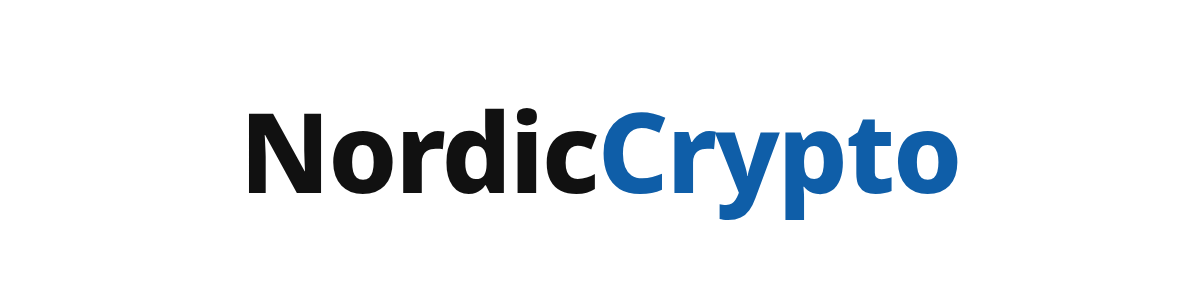
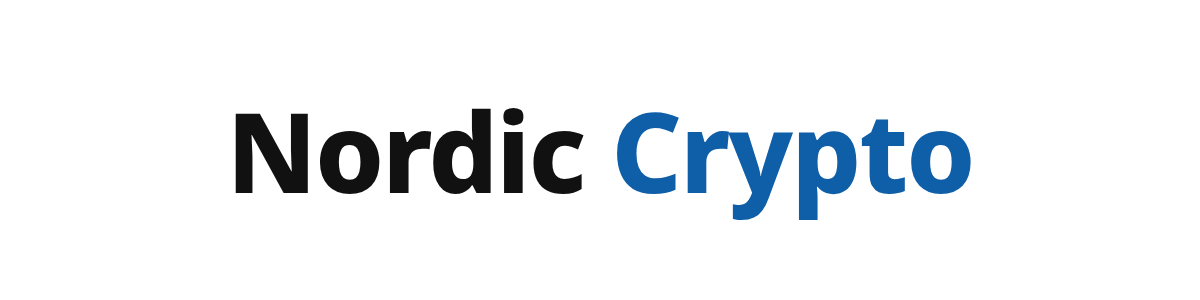
Newsletter: link to the Substack signup (https://nordiccrypto.substack.com/subscribe) in the footer and on /newsletter/ in 7 languages, independent of the own form (still off); fix the missing space in the Nordic Crypto wordmark (make_brand_assets.py, --site option); Substack setup checklist updated

Changed region(s): [[0.185, 0.36, 0.8325, 0.75]]

diff --git a/build.py b/build.py
@@ -152,6 +152,7 @@ html.nc-pick body{visibility:hidden}
 .rules-c .seg{margin:8px 0}
 .nlform{margin:12px 0}.nlform input[type=email]{padding:6px;width:100%;max-width:320px}.nlform button{padding:7px 14px;font-size:15px}.nlform .hp{position:absolute;left:-9999px}
 .nlmsg{display:block;margin-top:6px}.nlmsg.ok{color:#14532d}.nlmsg.warn{color:#9a3412}.nlfoot{margin-bottom:14px;padding-bottom:12px;border-bottom:1px solid var(--line)}.nlfoot .nlform{display:inline}.nlc label{position:absolute;left:-9999px}
+.nlsub{display:inline-block;padding:6px 14px;border-radius:6px;background:#0f5ea8;color:#fff!important;text-decoration:none;font-weight:600}.nlsub:hover,.nlsub:focus{background:#0b4a85}
 """
 
 NAV = [("", "nav_news"), ("calendar", "nav_calendar"), ("org-chart", "nav_org"), ("academia", "nav_academia"), ("sources", "nav_sources"), ("about", "nav_about"), ("tip", "nav_tip")]
@@ -193,15 +194,29 @@ if(q.get('sent'))say(f0,'sent');else if(q.get('confirmed'))say(f0,'confirmed');e
 F.forEach(function(f){f.addEventListener('submit',function(ev){ev.preventDefault();var b=f.querySelector('button'),d={};new FormData(f).forEach(function(v,k){d[k]=v});
 b.disabled=true;say(f,'sending');fetch(f.getAttribute('data-ep')+'/api/subscribe',{method:'POST',headers:{'Content-Type':'application/json','Accept':'application/json'},body:JSON.stringify(d)})
 .then(function(r){return r.json().then(function(j){b.disabled=false;if(r.ok){say(f,'sent');f.reset()}else say(f,E[j.error]||'e_fail')})}).catch(function(){b.disabled=false;say(f,'e_fail')})})})})();</script>""" % json.dumps(m, ensure_ascii=False)
+def substack_subscribe_url():
+    """Substack signup page (newsletter/config.json substack_url + /subscribe), or None. Independent of the own form:
+    the Substack link is shown even while enabled is false (Substack handles signup and privacy itself)."""
+    u = (NL_CFG.get("substack_url") or "").strip().rstrip("/")
+    if not u.startswith("https://"): return None
+    return u if u.endswith("/subscribe") else u + "/subscribe"
+def newsletter_on(): return bool(newsletter_endpoint() or substack_subscribe_url())
+def substack_button():
+    sub = substack_subscribe_url()
+    return f'<a class="nlsub" href="{E(sub)}" rel="noopener">{E(t("nl_sub_btn"))}</a>' if sub else ""
 def build_newsletter():
-    """/newsletter/ in every language: what you get, the form, the privacy note and the Kaupr disclosure. Only when on."""
-    if not newsletter_endpoint(): return
-    sub = NL_CFG.get("substack_url")
+    """/newsletter/ in every language: what you get, the own form (only when on), the Substack signup link (whenever
+    substack_url is set), the privacy note and the Kaupr disclosure. Not built when neither is available."""
+    if not newsletter_on(): return
+    form = newsletter_form()
+    sub = substack_button()
+    priv = f'<p class="notice">{t("nl_priv")}</p>' if form else ""
+    subnote = f'<p class="notice">{t("nl_sub_note")}</p>' if sub and not form else ""
     body = f"""<h1>{E(t("nl_title"))}</h1>
 <p class="lead">{E(t("nl_lead"))}</p>
-{newsletter_form()}
-<div class="prose"><p class="notice">{t("nl_priv")}</p>
-{f'<p><a href="{E(sub)}" rel="noopener">Substack</a></p>' if sub else ''}
+{form}
+{f'<p>{sub}</p>' if sub else ''}
+<div class="prose">{priv}{subnote}
 <p class="meta">{t("nl_kaupr")}</p></div>"""
     page("newsletter", t("nl_title"), "newsletter", body, t("nl_desc"))
 LANGSEL_JS = None
@@ -233,7 +248,7 @@ def page(slug, title, nav, body, desc, extra_script="", langs=None):
                 .replace("__COOKIE_PATH__", COOKIE_PATH).replace("__LANGS__", json.dumps(i18n.LANGS)) + "</script>")
     setck = ("<script>(function(){document.addEventListener('click',function(e){var a=e.target.closest&&e.target.closest('a[data-lang]');if(!a)return;"
              f"document.cookie='nc_lang='+a.getAttribute('data-lang')+';path={COOKIE_PATH};max-age=31536000;SameSite=Lax'+(location.protocol==='https:'?';Secure':'')}})}})();</script>")
-    nlfoot = (f'<div class="nlfoot"><b>{E(t("nl_foot"))}</b> {newsletter_form(True)} <a href="{rel}newsletter/">{E(t("nl_more"))}</a></div>' if newsletter_endpoint() and slug != "newsletter" else "")
+    nlfoot = (f'<div class="nlfoot"><b>{E(t("nl_foot"))}</b> {" ".join(x for x in (newsletter_form(True), substack_button()) if x)} <a href="{rel}newsletter/">{E(t("nl_more"))}</a></div>' if newsletter_on() and slug != "newsletter" else "")
     doc = f"""<!doctype html>
 <html lang="{i18n.HTML_LANG[LANG]}"><head><meta charset="utf-8"><meta name="viewport" content="width=device-width,initial-scale=1">
 {pick}<title>{E(title)}{" – " + SITE_NAME if slug else ""}</title>

diff --git a/newsletter/make_brand_assets.py b/newsletter/make_brand_assets.py
@@ -3,10 +3,17 @@ from playwright.sync_api import sync_playwright
 NC_MARK = "<svg xmlns='http://www.w3.org/2000/svg' viewBox='0 0 16 16'><rect width='16' height='16' fill='#0f5ea8'/><rect x='4' width='3' height='16' fill='white'/><rect y='6.5' width='16' height='3' fill='white'/></svg>"
 KN_MARK = "<svg xmlns='http://www.w3.org/2000/svg' viewBox='0 0 16 16'><rect width='16' height='16' fill='#b45309'/><text x='8' y='12.5' font-size='12' text-anchor='middle' fill='white' font-family='DejaVu Sans, sans-serif' font-weight='bold'>K</text></svg>"
 FONT = "font-family:system-ui,-apple-system,Roboto,Helvetica,Arial,sans-serif"   # same stack as the sites (no quotes: used inside style='…')
-def word(nc): return ("Nordic <span style='color:#0f5ea8'>Crypto</span>" if nc else "Krypto<span style='color:#b45309'>nytt</span> Norge")
+# The wordmark is wrapped in ONE inline span with a non-breaking space: as direct children of a flex container, the text node
+# "Nordic " and the coloured <span> became separate flex items and the space between them was dropped ("NordicCrypto").
+def word(nc): return ("<span style='white-space:nowrap'>Nordic&nbsp;<span style='color:#0f5ea8'>Crypto</span></span>" if nc
+                      else "<span style='white-space:nowrap'>Krypto<span style='color:#b45309'>nytt</span>&nbsp;Norge</span>")
 def tag(nc): return ("Crypto news from the Nordics" if nc else "Norske nyheiter om bitcoin, blokkjede og krypto")
+import sys
+# usage: make_brand_assets.py [--site nordic-crypto|kryptonytt]   (default: both sites)
+ONLY = sys.argv[sys.argv.index("--site") + 1] if "--site" in sys.argv else None
 JOBS = []
 for nc, d in ((True, "/workspace/nordic-crypto/newsletter/assets/"), (False, "/workspace/kryptonytt/newsletter/assets/")):
+    if ONLY and ONLY != ("nordic-crypto" if nc else "kryptonytt"): continue
     mark = NC_MARK if nc else KN_MARK
     open(d + "logo.svg", "w").write(mark.replace("viewBox", "width='512' height='512' viewBox") + "\n")
     JOBS += [(d + "logo-512.png", 512, 512, f"<div style='width:512px;height:512px'>{mark.replace('viewBox', 'width=\"512\" height=\"512\" viewBox')}</div>"),

diff --git a/i18n/is.py b/i18n/is.py
@@ -137,5 +137,7 @@ S.update({
 "nl_e_rate": "Of margar tilraunir á stuttum tíma. Reyndu aftur síðar.",
 "nl_e_link": "Tengillinn er ógildur eða útrunninn. Skráðu þig aftur.",
 "nl_e_fail": "Eitthvað fór úrskeiðis. Reyndu aftur síðar.",
-"nl_kaupr": "<b>Upplýsingagjöf:</b> Kaupr (kaupr.io) er einn af fréttamiðlunum sem við fylgjumst með, styrkir suma viðburði í dagatalinu okkar og styrkir Oslo Blockchain Meetup, sem jQrgen, útgefandi Nordic Crypto, stendur fyrir."
+"nl_kaupr": "<b>Upplýsingagjöf:</b> Kaupr (kaupr.io) er einn af fréttamiðlunum sem við fylgjumst með, styrkir suma viðburði í dagatalinu okkar og styrkir Oslo Blockchain Meetup, sem jQrgen, útgefandi Nordic Crypto, stendur fyrir.",
+"nl_sub_btn": "Gerast áskrifandi á Substack →",
+"nl_sub_note": "Þú skráir þig hjá Substack (nordiccrypto.substack.com), sem sendir fréttabréfið. Substack meðhöndlar netfangið þitt samkvæmt eigin persónuverndarstefnu; þessi vefur geymir ekkert og notar enga rakningu. Í hverju fréttabréfi er tengill til að segja upp áskrift."
 })

diff --git a/i18n/fi.py b/i18n/fi.py
@@ -137,5 +137,7 @@ S.update({
 "nl_e_rate": "Liian monta yritystä lyhyessä ajassa. Yritä myöhemmin uudelleen.",
 "nl_e_link": "Linkki ei ole voimassa tai se on vanhentunut. Tilaa uudelleen.",
 "nl_e_fail": "Jokin meni vikaan. Yritä myöhemmin uudelleen.",
-"nl_kaupr": "<b>Avoimuus:</b> Kaupr (kaupr.io) on yksi seuraamistamme uutislähteistä, sponsoroi joitakin kalenterimme tapahtumia ja sponsoroi Oslo Blockchain Meetupia, jota pitää Nordic Crypton julkaisija jQrgen."
+"nl_kaupr": "<b>Avoimuus:</b> Kaupr (kaupr.io) on yksi seuraamistamme uutislähteistä, sponsoroi joitakin kalenterimme tapahtumia ja sponsoroi Oslo Blockchain Meetupia, jota pitää Nordic Crypton julkaisija jQrgen.",
+"nl_sub_btn": "Tilaa Substackissa →",
+"nl_sub_note": "Tilaus tehdään Substackissa (nordiccrypto.substack.com), joka lähettää uutiskirjeen. Substack käsittelee sähköpostiosoitettasi oman tietosuojakäytäntönsä mukaisesti; tämä sivusto ei tallenna mitään eikä seuraa sinua. Jokaisessa uutiskirjeessä on linkki tilauksen perumiseen."
 })

diff --git a/i18n/sv.py b/i18n/sv.py
@@ -137,5 +137,7 @@ S.update({
 "nl_e_rate": "För många försök på kort tid. Försök igen senare.",
 "nl_e_link": "Länken är ogiltig eller har gått ut. Anmäl dig igen.",
 "nl_e_fail": "Något gick fel. Försök igen senare.",
-"nl_kaupr": "<b>Öppenhet:</b> Kaupr (kaupr.io) är en av nyhetskällorna vi följer, sponsrar några evenemang i vår kalender och sponsrar Oslo Blockchain Meetup, som drivs av jQrgen, utgivare av Nordic Crypto."
+"nl_kaupr": "<b>Öppenhet:</b> Kaupr (kaupr.io) är en av nyhetskällorna vi följer, sponsrar några evenemang i vår kalender och sponsrar Oslo Blockchain Meetup, som drivs av jQrgen, utgivare av Nordic Crypto.",
+"nl_sub_btn": "Prenumerera på Substack →",
+"nl_sub_note": "Du anmäler dig hos Substack (nordiccrypto.substack.com), som skickar nyhetsbrevet. Substack hanterar din e-postadress enligt sin egen integritetspolicy; den här webbplatsen sparar ingenting och har ingen spårning. Varje nyhetsbrev har en länk för att avsluta prenumerationen."
 })

diff --git a/i18n/nn.py b/i18n/nn.py
@@ -137,5 +137,7 @@ S.update({
 "nl_e_rate": "For mange forsøk på kort tid. Prøv igjen seinare.",
 "nl_e_link": "Lenkja er ugyldig eller har gått ut. Meld deg på på nytt.",
 "nl_e_fail": "Noko gjekk gale. Prøv igjen seinare.",
-"nl_kaupr": "<b>Openheit:</b> Kaupr (kaupr.io) er ei av nyheitskjeldene vi følgjer, sponsar nokre arrangement i kalenderen vår og sponsar Oslo Blockchain Meetup, som blir driven av jQrgen, utgjevaren av Nordic Crypto."
+"nl_kaupr": "<b>Openheit:</b> Kaupr (kaupr.io) er ei av nyheitskjeldene vi følgjer, sponsar nokre arrangement i kalenderen vår og sponsar Oslo Blockchain Meetup, som blir driven av jQrgen, utgjevaren av Nordic Crypto.",
+"nl_sub_btn": "Abonner på Substack →",
+"nl_sub_note": "Du melder deg på hos Substack (nordiccrypto.substack.com), som sender nyheitsbrevet. Substack handsamar e-postadressa di etter sine eigne personvernreglar; denne nettstaden lagrar ingenting og har inga sporing. Kvart nyheitsbrev har ei lenkje for å melde seg av."
 })

diff --git a/i18n/en.py b/i18n/en.py
@@ -156,5 +156,7 @@ S.update({
 "nl_e_rate": "Too many attempts in a short time. Please try again later.",
 "nl_e_link": "The link is invalid or has expired. Please sign up again.",
 "nl_e_fail": "Something went wrong. Please try again later.",
-"nl_kaupr": "<b>Disclosure:</b> Kaupr (kaupr.io) is one of the news sources we follow, sponsors some events in our calendar and sponsors Oslo Blockchain Meetup, the meetup run by jQrgen, the publisher of Nordic Crypto."
+"nl_kaupr": "<b>Disclosure:</b> Kaupr (kaupr.io) is one of the news sources we follow, sponsors some events in our calendar and sponsors Oslo Blockchain Meetup, the meetup run by jQrgen, the publisher of Nordic Crypto.",
+"nl_sub_btn": "Subscribe on Substack →",
+"nl_sub_note": "You sign up on Substack (nordiccrypto.substack.com), which sends the newsletter. Substack handles your email address under its own privacy policy; this website stores nothing and has no tracking. Every newsletter has an unsubscribe link."
 })

diff --git a/i18n/nb.py b/i18n/nb.py
@@ -137,5 +137,7 @@ S.update({
 "nl_e_rate": "For mange forsøk på kort tid. Prøv igjen senere.",
 "nl_e_link": "Lenken er ugyldig eller har utløpt. Meld deg på på nytt.",
 "nl_e_fail": "Noe gikk galt. Prøv igjen senere.",
-"nl_kaupr": "<b>Åpenhet:</b> Kaupr (kaupr.io) er en av nyhetskildene vi følger, sponser noen arrangementer i kalenderen vår og sponser Oslo Blockchain Meetup, som drives av jQrgen, utgiveren av Nordic Crypto."
+"nl_kaupr": "<b>Åpenhet:</b> Kaupr (kaupr.io) er en av nyhetskildene vi følger, sponser noen arrangementer i kalenderen vår og sponser Oslo Blockchain Meetup, som drives av jQrgen, utgiveren av Nordic Crypto.",
+"nl_sub_btn": "Abonner på Substack →",
+"nl_sub_note": "Du melder deg på hos Substack (nordiccrypto.substack.com), som sender nyhetsbrevet. Substack behandler e-postadressen din etter sine egne personvernregler; dette nettstedet lagrer ingenting og har ingen sporing. Hvert nyhetsbrev har en lenke for å melde seg av."
 })

diff --git a/i18n/da.py b/i18n/da.py
@@ -137,5 +137,7 @@ S.update({
 "nl_e_rate": "For mange forsøg på kort tid. Prøv igen senere.",
 "nl_e_link": "Linket er ugyldigt eller udløbet. Tilmeld dig igen.",
 "nl_e_fail": "Noget gik galt. Prøv igen senere.",
-"nl_kaupr": "<b>Åbenhed:</b> Kaupr (kaupr.io) er en af de nyhedskilder, vi følger, sponsorerer nogle arrangementer i vores kalender og sponsorerer Oslo Blockchain Meetup, som drives af jQrgen, udgiveren af Nordic Crypto."
+"nl_kaupr": "<b>Åbenhed:</b> Kaupr (kaupr.io) er en af de nyhedskilder, vi følger, sponsorerer nogle arrangementer i vores kalender og sponsorerer Oslo Blockchain Meetup, som drives af jQrgen, udgiveren af Nordic Crypto.",
+"nl_sub_btn": "Abonnér på Substack →",
+"nl_sub_note": "Du tilmelder dig hos Substack (nordiccrypto.substack.com), som sender nyhedsbrevet. Substack behandler din e-mailadresse efter sin egen privatlivspolitik; dette websted gemmer intet og har ingen sporing. Hvert nyhedsbrev har et link til afmelding."
 })

diff --git a/newsletter/substack-setup.md b/newsletter/substack-setup.md
@@ -1,7 +1,9 @@
 # Nordic Crypto – newsletter setup kit (Substack + email)
 
-Status: **prepared, nothing created or sent.** No Substack account exists yet; jQrgen creates it with his own login.
-Nothing here is published to gh-pages, and the signup form on the site is **off** (`newsletter/config.json` → `enabled: false`).
+Status: **Substack publication created by jQrgen on 2026-10-05: https://nordiccrypto.substack.com** (subdomain `nordiccrypto`;
+`/subscribe` answers HTTP 200). Nothing has been sent. The site links to the Substack signup
+(https://nordiccrypto.substack.com/subscribe) in the footer of every page and on `/newsletter/` in all 7 languages
+(`newsletter/config.json` → `substack_url`). The site's own signup form stays **off** (`enabled: false`) until the Worker is deployed.
 
 Two channels:
 1. **Substack** – the publication itself (web archive + Substack's own email and app).
@@ -16,7 +18,7 @@ Two channels:
 | Field | Proposal |
 |---|---|
 | Publication name | **Nordic Crypto** |
-| Subdomain | **nordiccrypto.substack.com** – looked free on 4 Oct 2026 01:22 CEST (HTTP 404, the same as for a random unused name). Alternative: nordiccryptonews.substack.com (also 404). A 404 is only a hint: Substack's sign-up form gives the final answer. |
+| Subdomain | **nordiccrypto.substack.com** – created by jQrgen on 2026-10-05 (https://nordiccrypto.substack.com, HTTP 200; `/subscribe` HTTP 200). |
 | Custom domain (optional, paid add-on) | not needed; the site stays on jqrgen.github.io/nordic-crypto/ |
 | Language (Settings › Publication details) | English |
 | Sender name ("From" name) | **Nordic Crypto** (alternative: "Nordic Crypto – jQrgen") |
@@ -129,11 +131,15 @@ Stories from Kaupr are marked "Kaupr is a sponsor" in the digest.
   `.venv/bin/python tipworker/export_subscribers.py --site nordic-crypto` → `state/newsletter/nordic-crypto-confirmed-<date>.csv`
   (mode 600, gitignored; column `email` first) → Substack › Subscribers › Import. Delete the CSV after the import.
 
-## 7. Checklist for jQrgen (nothing below has been done)
+## 7. Checklist for jQrgen (updated 2026-10-05)
 
-- [ ] Create the Substack publication with your own login; confirm the subdomain (nordiccrypto).
-- [ ] Approve: publication name, sender name, reply-to address, tagline, about text, categories, branding images.
+- [x] Create the Substack publication with your own login; confirm the subdomain (nordiccrypto). Done 2026-10-05: https://nordiccrypto.substack.com
+- [ ] In Substack settings: tagline and about text (section 1), sender name, categories (Crypto; Finance, International/News).
+- [ ] Reply-to address: still undecided (no public address exists; do not use a private one without deciding).
+- [ ] Branding: upload `newsletter/assets/logo-512.png` (logo), `email-banner-1100x220.png` (email header), `cover-1200x630.png`
+  (cover/social image), optionally `wordmark-1200x300.png`; accent colour #0f5ea8. (Regenerated 2026-10-05: the wordmark
+  now reads "Nordic Crypto" with the space – an earlier version showed "NordicCrypto".)
 - [ ] Paste the welcome email; set language English; paid subscriptions off.
 - [ ] Choose the confirmation-email provider for the site form (Resend, Buttondown, Postmark via webhook, or Substack import only) and the from-address (needs a domain you control for SPF/DKIM).
 - [ ] Give a Cloudflare API token to deploy the Worker (`tipworker/deploy.sh`), then approve switching the form on.
-- [ ] After the first import: set `substack_url` in `newsletter/config.json` so the site links to the Substack.
+- [x] Set `substack_url` in `newsletter/config.json` (2026-10-05) – the site links to https://nordiccrypto.substack.com/subscribe in the footer and on /newsletter/ (7 languages), even while the own form is off.

diff --git a/README.md b/README.md
@@ -73,12 +73,13 @@ Tips go to `tipserver/tips.db` (gitignored, mode 600) with a UTC timestamp and s
 ## Article archive
 `archive/articles.db` (SQLite, gitignored) + `archive/articles.json` (committed export). Schema `archive/schema.sql`, shared with Kryptonytt (plus the additive `country` column); D1 mirror `tipworker/migrations/0002_articles.sql`. Rows are never deleted (triggers); a story that disappears gets `removed = 1` and `removed_at`. `routines/morning-publish.sh` runs `tools/article_archive.py record` after each successful publish; `backfill` reads the gh-pages history.
 
-## Newsletter (Substack + email) – prepared, OFF
+## Newsletter (Substack live 2026-10-05; own form OFF)
 `newsletter/substack-setup.md` (publication name, subdomain, texts, branding in `newsletter/assets/`, welcome email, digest
 template, Kaupr disclosure, checklist for jQrgen). `newsletter/digest.py` builds the weekly digest from the **public** build
 only (approved stories). Signup form (footer + `/newsletter/`, 7 languages, privacy note) is behind `newsletter/config.json`
-`enabled: false`; it posts to the tipworker (`/api/subscribe`, double opt-in, see `tipworker/README.md`). Nothing is sent and
-no Substack account exists until jQrgen sets it up.
+`enabled: false`; it posts to the tipworker (`/api/subscribe`, double opt-in, see `tipworker/README.md`).
+Substack publication: https://nordiccrypto.substack.com (created by jQrgen 2026-10-05). `substack_url` in `newsletter/config.json`
+makes the footer and `/newsletter/` (7 languages) link to its `/subscribe` page on its own, independent of `enabled`.
 
 ## Privacy
 No health or private financial data about anyone, no org numbers, LEIs, addresses of private persons, emails or tokens. `state/private_terms.json` (never printed, never committed) feeds the privacy gate, which blocks the build if it finds them. The gate also blocks organisation numbers in visible text, including source titles (NO 9-digit, SE NNNNNN-NNNN, DK CVR, «org.nr …»); register links are fine, the number itself must not be written out.
